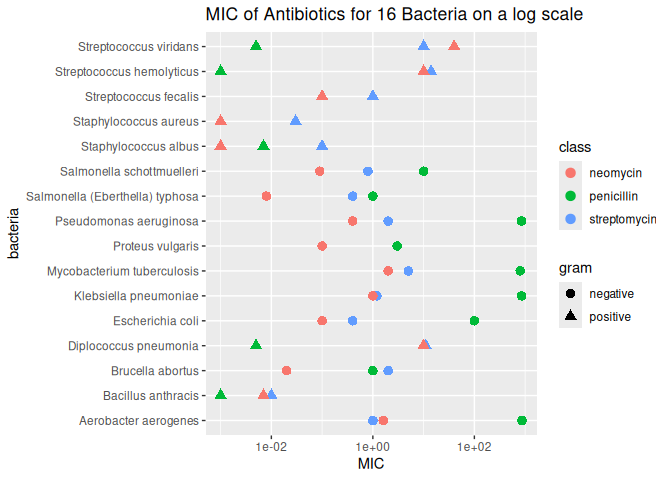
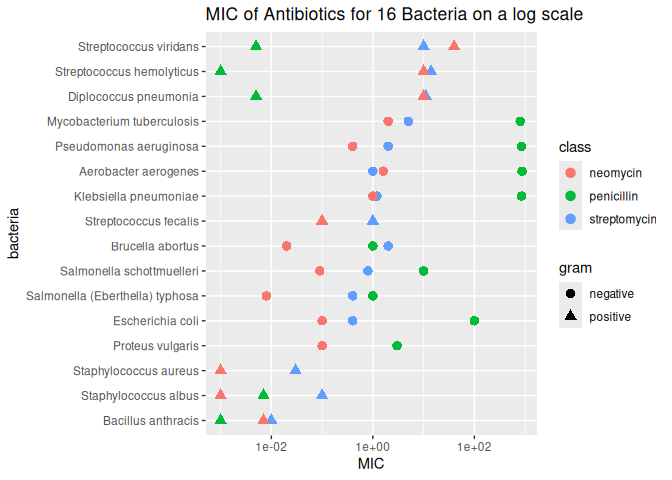
Challenge Corrections

diff --git a/data-science-curriculum-build/data-science-curriculum-build/challenges/c05-antibiotics-assignment.md b/data-science-curriculum-build/data-science-curriculum-build/challenges/c05-antibiotics-assignment.md
@@ -207,6 +207,7 @@ df_longer
 
 ``` r
 df_longer %>%
+  mutate(bacteria = fct_reorder(bacteria, value)) %>%
   ggplot(aes(value, bacteria, color = class, shape = gram)) +
   scale_x_log10() +
   geom_point(size = 3) +
@@ -285,6 +286,7 @@ your other visuals.
 # WRITE YOUR CODE HERE
 df_longer %>%
   filter(class == "penicillin") %>%
+  mutate(bacteria = fct_reorder(bacteria, value)) %>%
   ggplot(aes(value, bacteria, color = gram)) +
   geom_point() +
   scale_x_log10() +
